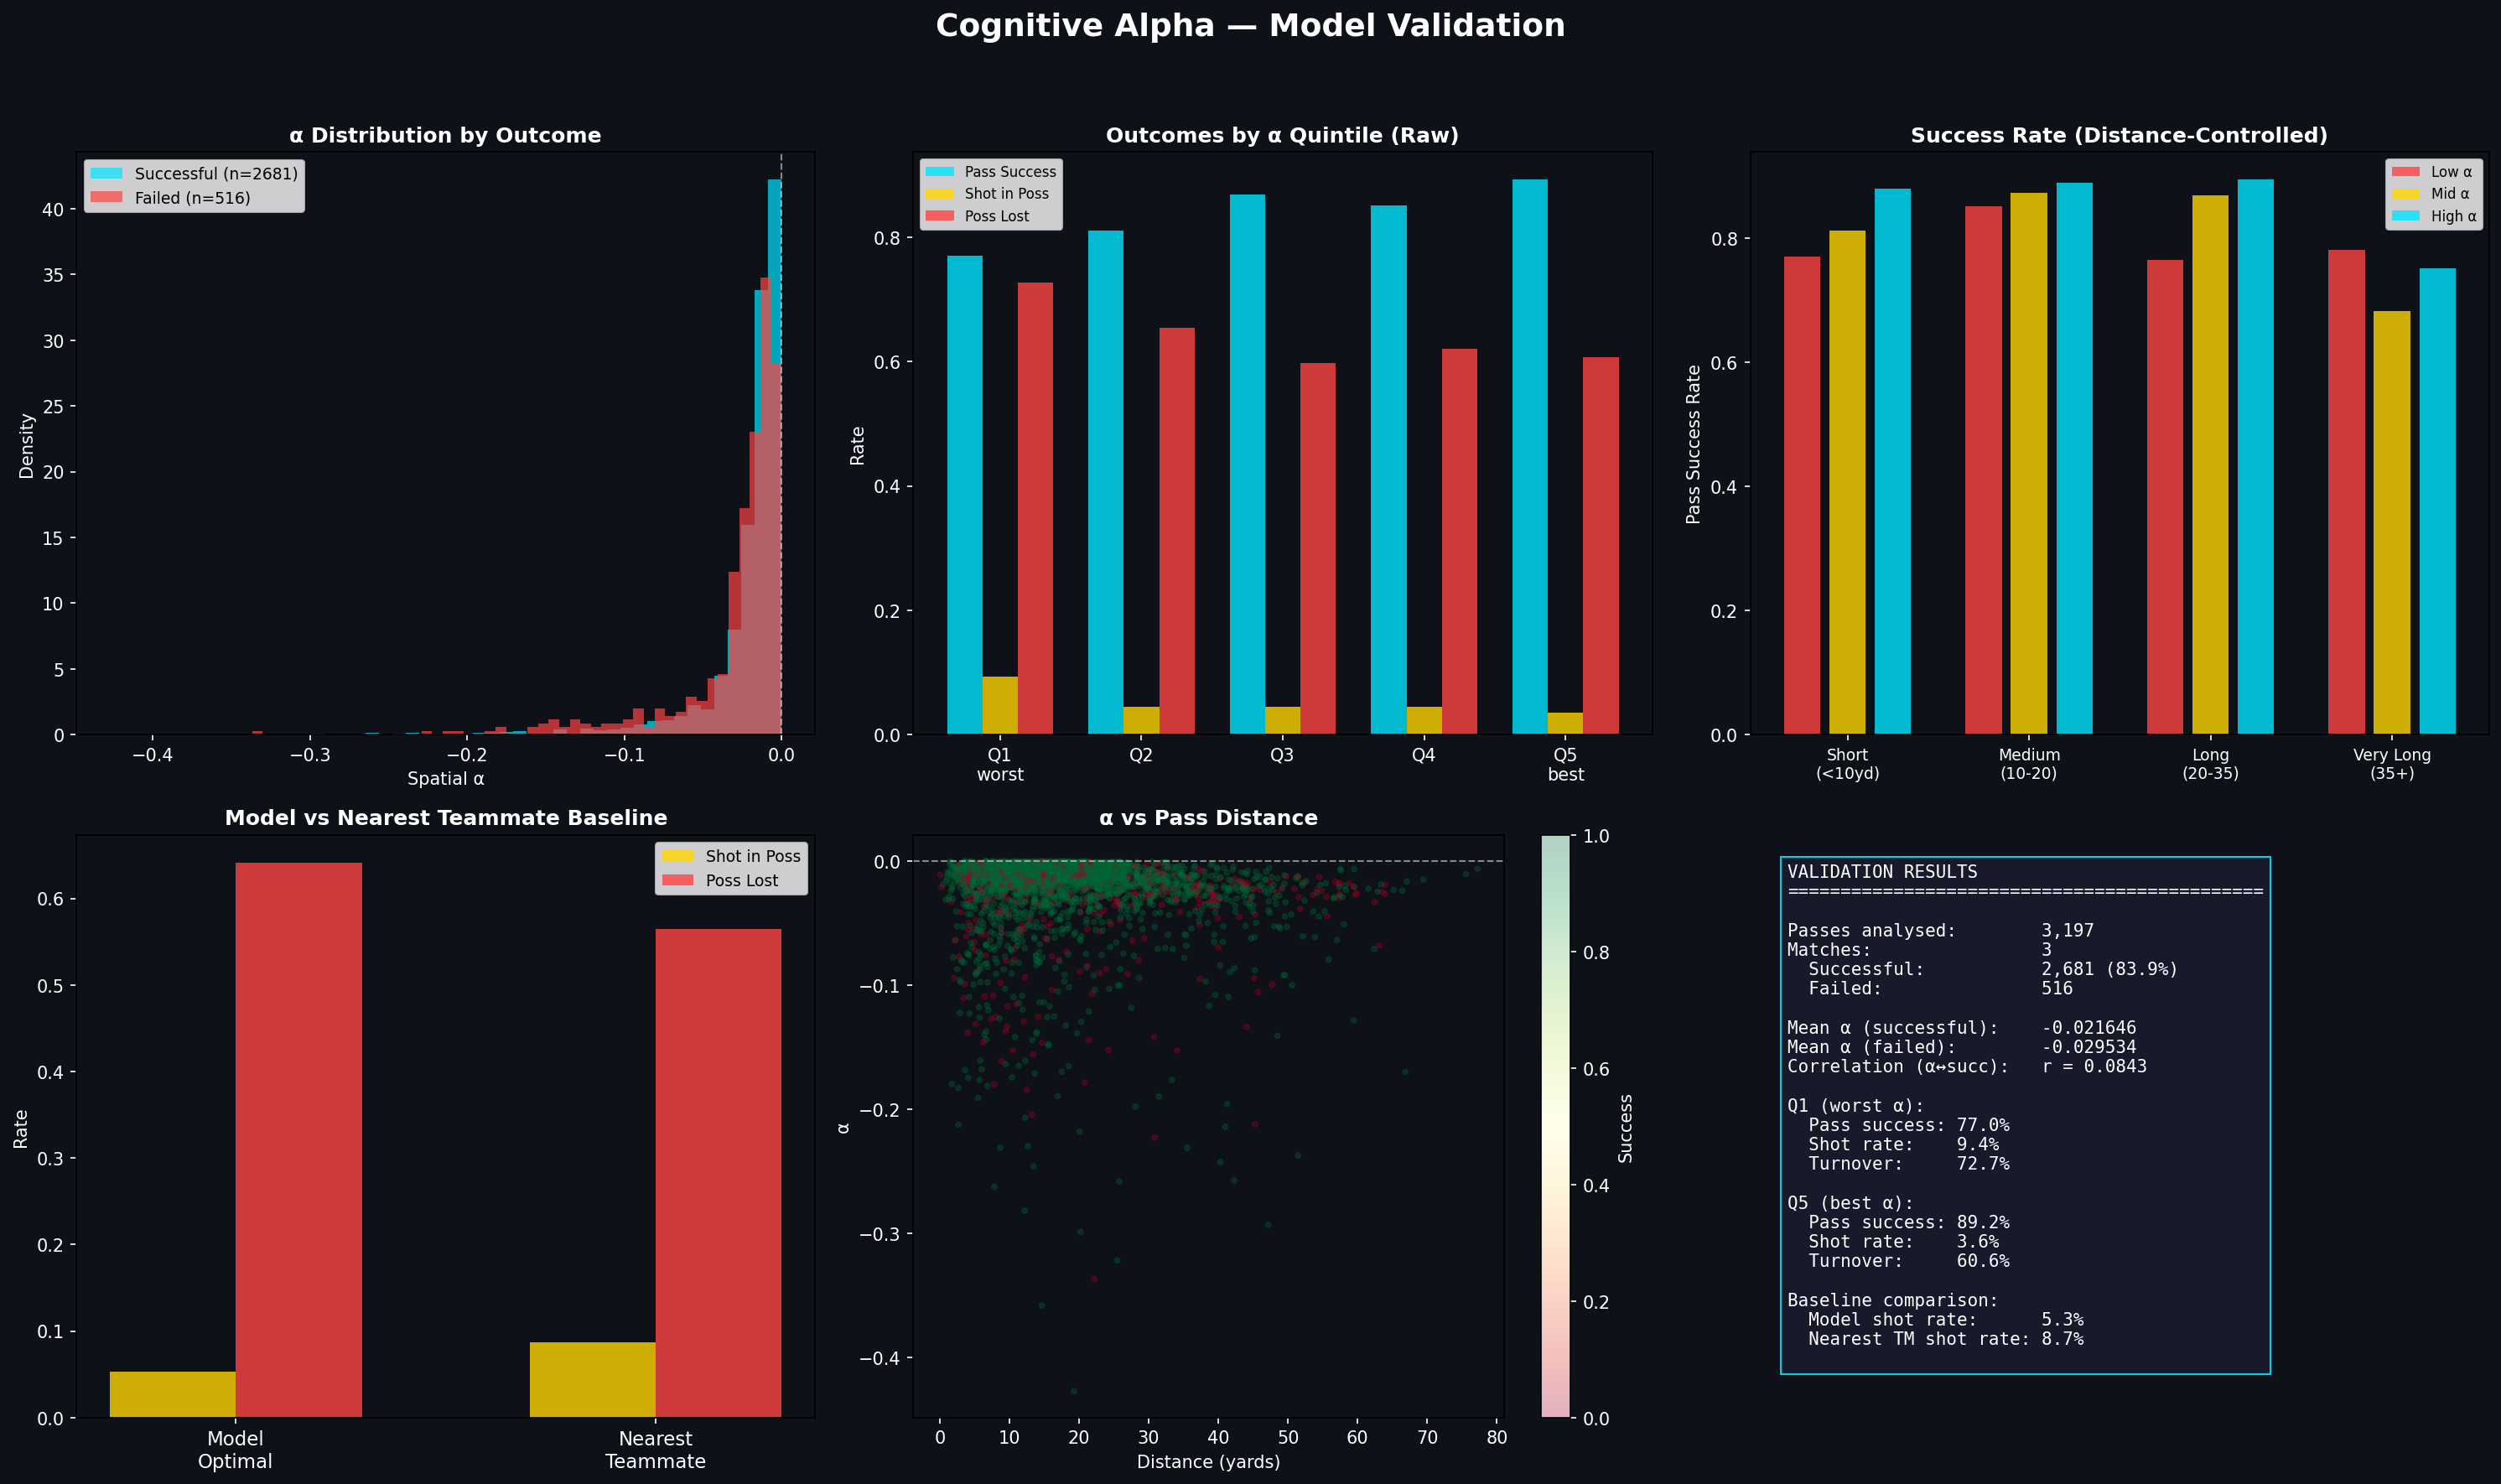
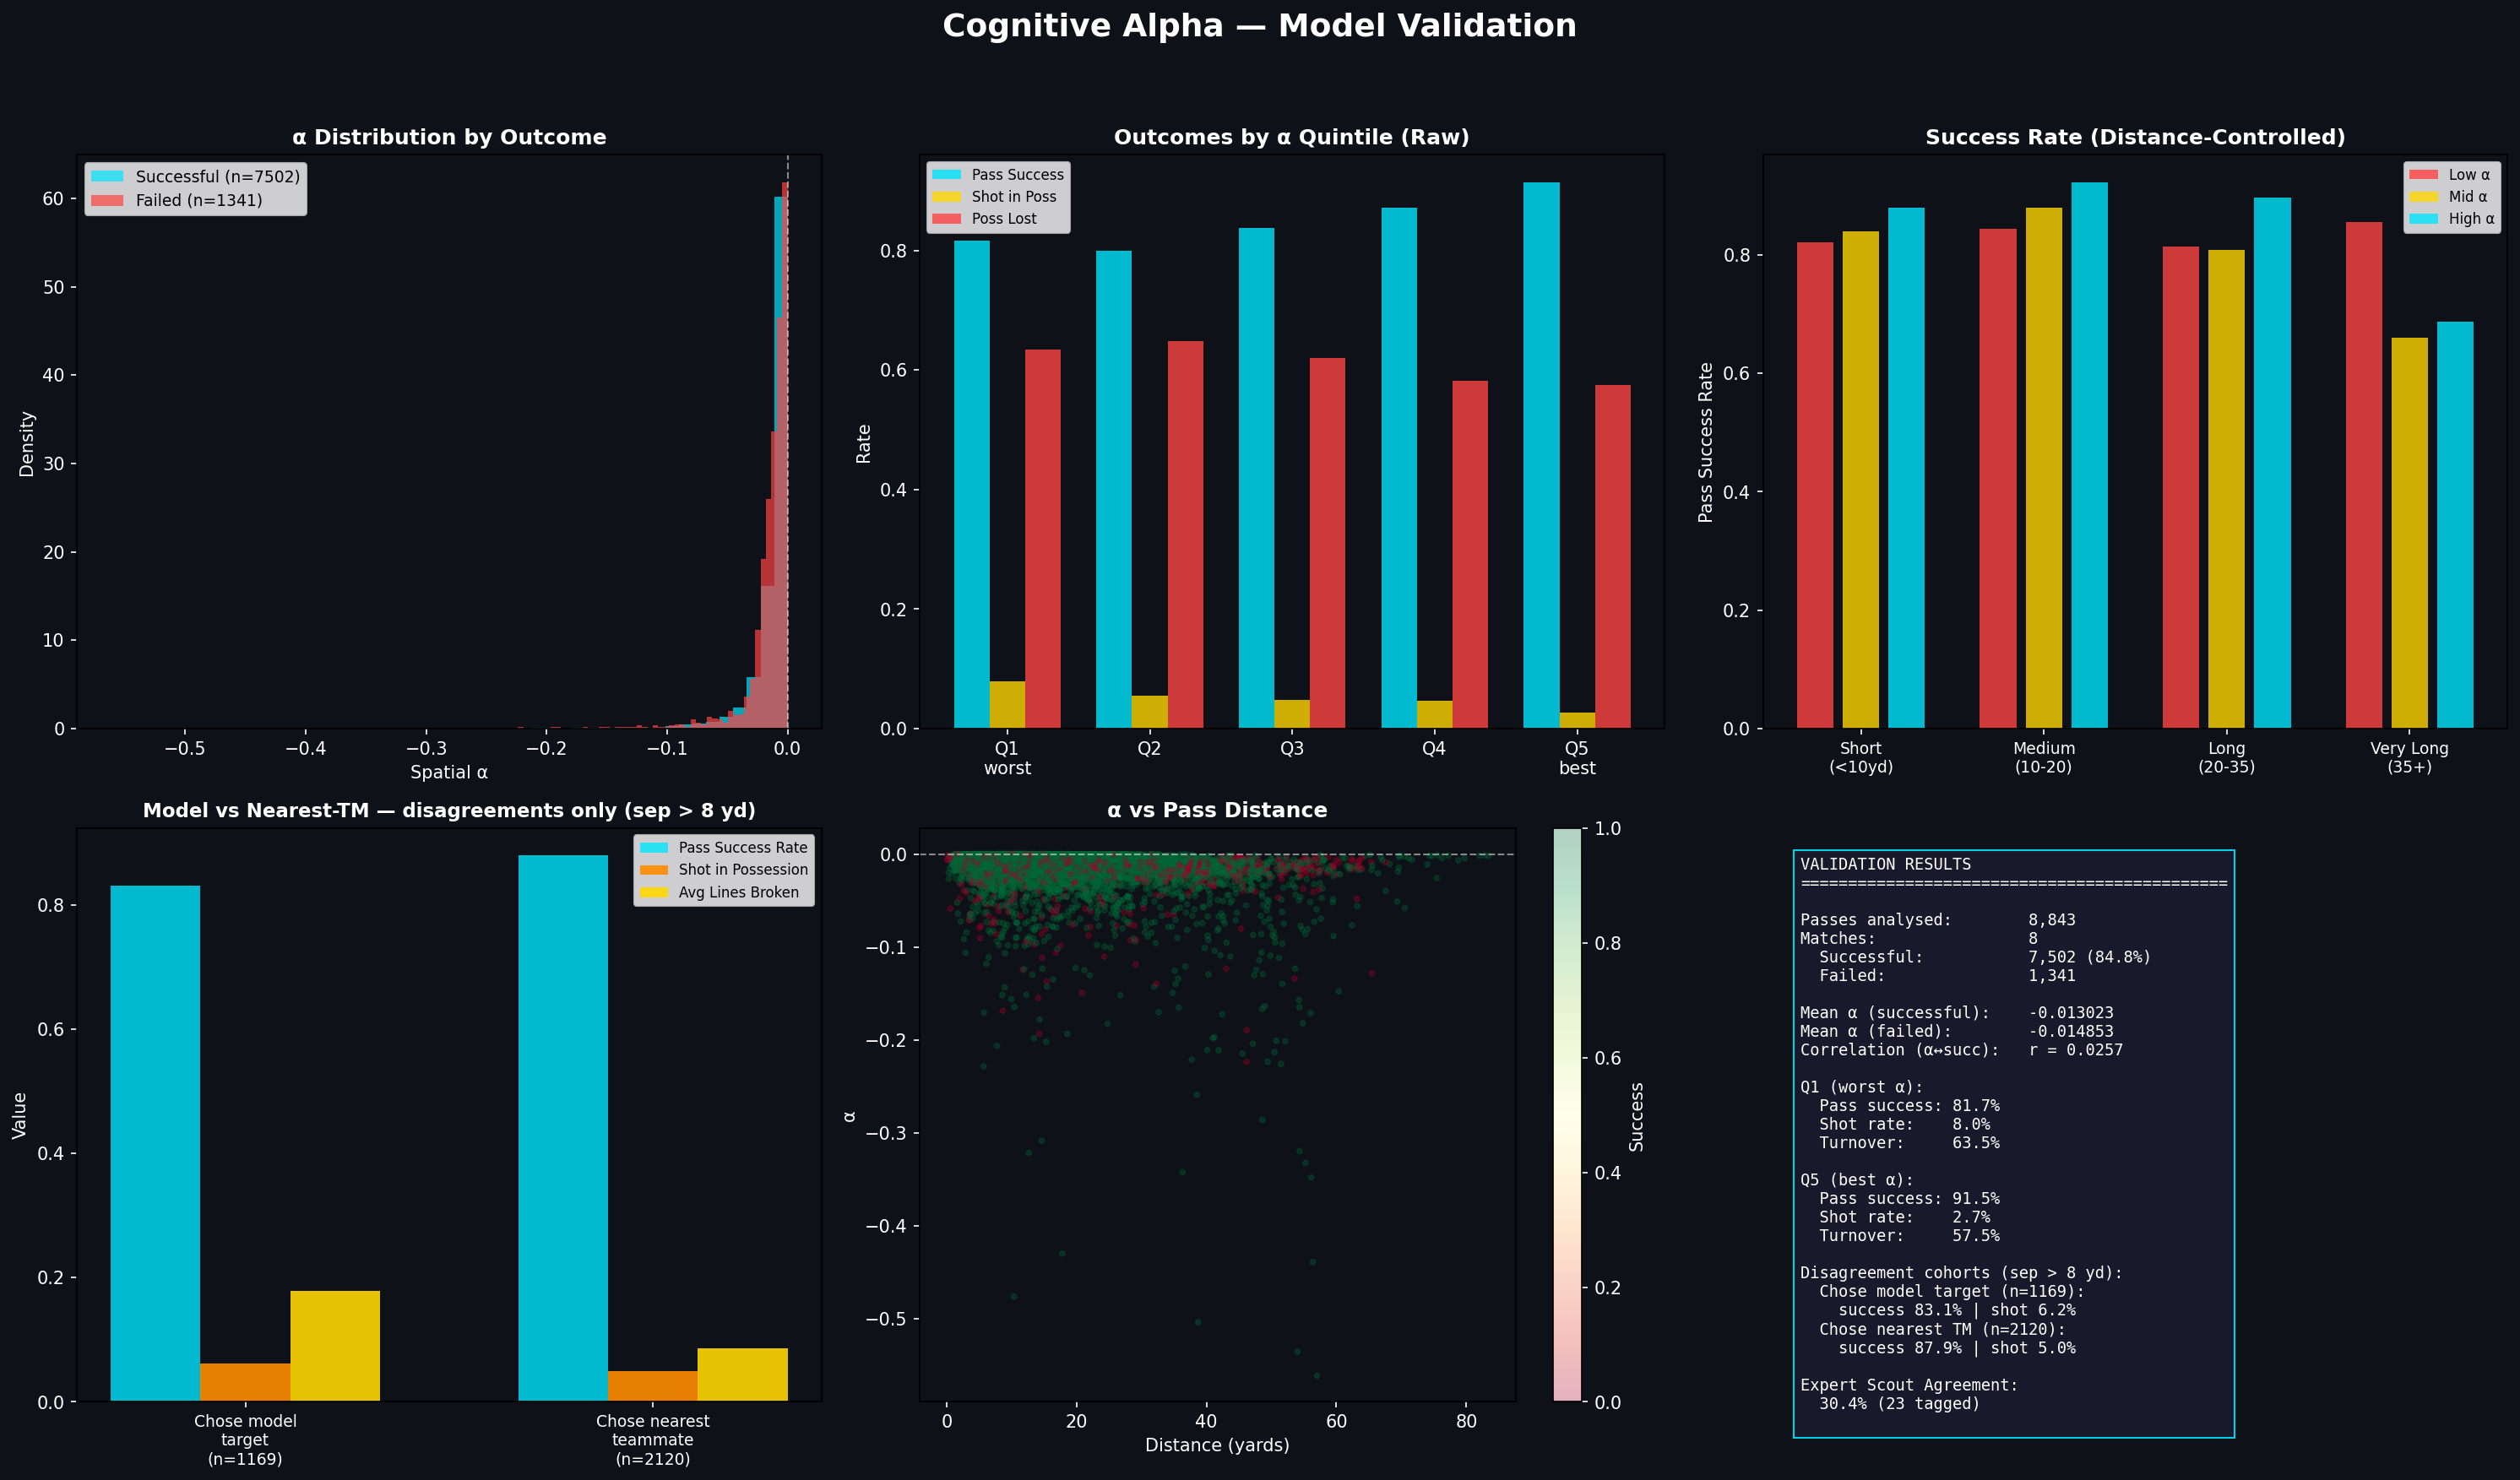
validation: fix degenerate baseline, outcome leakage, ordering assumptions
- baseline was split on opt_xev > nearest_teammate_xev, but opt_xev is
  the argmax of the same surface, so the 'baseline' cohort was only
  exact ties. Replaced with outcome comparison on true disagreements:
  passes where model target and nearest teammate are >8 yd apart and
  the player's choice matches exactly one (disagreement_cohorts).
- failed StatsBomb passes were evaluated at the interception point,
  leaking the outcome into alpha; now evaluated at the intended target
  (nearest teammate to the recorded end, infer_intended_target).
- possession look-ahead no longer assumes DataFrame row order is
  chronological; PFF event matching requires passer name + <=2s.
- cache key includes n_matches; PFF validation now runs all 8 matches.
- README: replace overclaims with hardened 8-match numbers (8,843
  passes): top-alpha tercile best completion in 3 of 4 distance bins;
  disagreement cohorts +1.2pt shots, 2x lines broken, -4.8pt completion
  (risk/reward tilt); shot-rate gap directional, not significant.
- figure regenerated from the hardened pipeline; unit tests for both
  new helpers.

diff --git a/validate_model.py b/validate_model.py
@@ -33,6 +33,65 @@ COMPETITION_ID = 43
 SEASON_ID = 106
 
 
+# ---- 0. Methodology helpers (unit-tested in tests/test_model.py) ----
+def infer_intended_target(
+    end_loc: np.ndarray, tm_pos: np.ndarray,
+) -> tuple[np.ndarray, bool]:
+    """
+    Proxy the INTENDED target of a failed pass.
+
+    StatsBomb's pass_end_location for a failed pass is where the ball was
+    intercepted or ran out -- mechanically a low-xEV spot. Evaluating the
+    decision there leaks the outcome into alpha ("failed passes look like
+    bad decisions" partly by construction). The standard proxy is the
+    teammate closest to the recorded end location.
+
+    Returns (target_pos, is_proxy).
+    """
+    if len(tm_pos) == 0:
+        return end_loc, False
+    dists = np.linalg.norm(tm_pos - end_loc, axis=1)
+    return tm_pos[int(np.argmin(dists))].astype(float), True
+
+
+def disagreement_cohorts(
+    df: pd.DataFrame,
+    radius: float = 8.0,
+    min_separation: float = 8.0,
+) -> tuple[pd.DataFrame, pd.DataFrame]:
+    """
+    Outcome-based model-vs-baseline comparison, restricted to passes where
+    the model target and the nearest-teammate target actually DISAGREE
+    (further than min_separation apart).
+
+    Rationale: the old comparison split on opt_xev > nearest_teammate_xev,
+    but opt_xev is the argmax of the same surface nearest_teammate_xev is
+    read from, so opt_xev >= nearest_teammate_xev holds by construction and
+    the "baseline" cohort contained only exact ties.
+
+    Returns (went_model, went_baseline): passes whose actual end point lies
+    within `radius` yards of exactly one of the two targets. Downstream
+    outcome rates (shots, turnovers) of the two cohorts give a fair,
+    non-circular baseline comparison.
+    """
+    d_targets = np.sqrt(
+        (df["opt_x"] - df["nearest_x"]) ** 2
+        + (df["opt_y"] - df["nearest_y"]) ** 2
+    )
+    d_opt = np.sqrt(
+        (df["actual_end_x"] - df["opt_x"]) ** 2
+        + (df["actual_end_y"] - df["opt_y"]) ** 2
+    )
+    d_near = np.sqrt(
+        (df["actual_end_x"] - df["nearest_x"]) ** 2
+        + (df["actual_end_y"] - df["nearest_y"]) ** 2
+    )
+    disagree = d_targets > min_separation
+    went_model = disagree & (d_opt <= radius) & (d_near > radius)
+    went_baseline = disagree & (d_near <= radius) & (d_opt > radius)
+    return df[went_model], df[went_baseline]
+
+
 # ---- 1. Compute α for all passes in one match ----
 def compute_match_alphas(match_id: int) -> pd.DataFrame:
     """Compute α for all open-play passes in a match (with possession-aware look-ahead)."""
@@ -90,6 +149,16 @@ def compute_match_alphas(match_id: int) -> pd.DataFrame:
                 continue
             actual_end = np.array(end_loc, dtype=float)
 
+            # Outcome (needed now: failed passes get a proxied target)
+            pass_outcome = pass_row.get("pass_outcome")
+            is_successful = pd.isna(pass_outcome)
+
+            # De-leak: evaluate failed passes at the intended target, not
+            # at the interception point (see infer_intended_target).
+            end_is_proxy = False
+            if not is_successful:
+                actual_end, end_is_proxy = infer_intended_target(actual_end, tm_pos)
+
             # Compute α
             result = compute_continuous_alpha(
                 bc_pos, tm_pos, def_pos, actual_end, pass_type="Ground Pass",
@@ -110,21 +179,26 @@ def compute_match_alphas(match_id: int) -> pd.DataFrame:
                 nearest_x, nearest_y = 0.0, 0.0
 
             # === Possession-ID look-ahead ===
-            pass_outcome = pass_row.get("pass_outcome")
-            is_successful = pd.isna(pass_outcome)
             passer_team = pass_row.get("team")
             possession_id = pass_row.get("possession")
 
-            # Look ahead within SAME possession chain only
+            # Look ahead within SAME possession chain only.
+            # Sort chronologically -- DataFrame row order is not a contract.
             if possession_id is not None:
                 same_poss = events[
                     (events["possession"] == possession_id)
                     & (events["team"] == passer_team)
                 ]
-                pass_idx_in_poss = same_poss.index[same_poss["id"] == pass_id]
-                if len(pass_idx_in_poss) > 0:
-                    idx = pass_idx_in_poss[0]
-                    future_in_poss = same_poss.loc[same_poss.index > idx]
+                if "index" in same_poss.columns:
+                    same_poss = same_poss.sort_values("index", kind="stable")
+                else:
+                    same_poss = same_poss.sort_values(
+                        ["period", "minute", "second"], kind="stable"
+                    )
+                poss_ids = same_poss["id"].tolist()
+                if pass_id in poss_ids:
+                    pos = poss_ids.index(pass_id)
+                    future_in_poss = same_poss.iloc[pos + 1:]
                     shot_in_poss = any(future_in_poss["type"] == "Shot")
                 else:
                     shot_in_poss = False
@@ -162,6 +236,7 @@ def compute_match_alphas(match_id: int) -> pd.DataFrame:
                 "nearest_y": nearest_y,
                 "pass_distance": pass_distance,
                 "is_successful": is_successful,
+                "end_is_proxy": end_is_proxy,
                 "shot_in_possession": shot_in_poss,
                 "possession_lost": possession_lost,
                 "n_defenders": len(def_pos),
@@ -238,23 +313,29 @@ def compute_pff_match_alphas(game_id: int) -> pd.DataFrame:
             is_home = row.get("team", "") == raw_events[0].get("gameEvents", {}).get("teamName", "") if raw_events else True
 
             # === PFF Possession Chain Look-ahead ===
-            # Find this pass's index in the raw event list by gameClock proximity
+            # Find this pass's index in the raw event list by gameClock
+            # proximity AND passer name (gameClock alone is ambiguous when
+            # two passes share the same second), capped at 2s tolerance.
             shot_in_poss = False
             poss_lost = not is_successful  # default: failed pass = lost
             pass_clock = row.get("minute", 0) * 60 + row.get("second", 0)
+            target_passer = str(row.get("passer_name") or "")
 
-            # Find the closest raw event by gameClock
             best_raw_idx = None
             best_diff = float("inf")
             for ri, re in enumerate(raw_events):
                 pe = re.get("possessionEvents", {})
                 if pe and pe.get("possessionEventType") == "PA":
+                    if target_passer and (pe.get("passerPlayerName") or "") != target_passer:
+                        continue
                     gc = pe.get("gameClock", -1)
                     if gc >= 0:
                         diff = abs(gc - pass_clock)
                         if diff < best_diff:
                             best_diff = diff
                             best_raw_idx = ri
+            if best_diff > 2:
+                best_raw_idx = None
 
             if best_raw_idx is not None and is_successful:
                 # Scan the next 10 events after this pass
@@ -310,6 +391,11 @@ def compute_pff_match_alphas(game_id: int) -> pd.DataFrame:
                     spatial["actual_end"] - spatial["bc_pos"]
                 )),
                 "is_successful": is_successful,
+                # failed PFF passes are already evaluated at the annotated
+                # intended target (extract_pff_passes falls back to
+                # targetPlayerName when there is no receiver), not at the
+                # interception point
+                "end_is_proxy": not is_successful,
                 "shot_in_possession": shot_in_poss,
                 "possession_lost": poss_lost,
                 "n_defenders": len(spatial["def_pos"]),
@@ -340,7 +426,9 @@ def compute_validation_data(
                  "pff" (30fps tracking, speeds + velocity vectors)
     """
     suffix = "_pff" if data_source == "pff" else ""
-    cache_path = OUTPUT_DIR / f"validation_data{suffix}.parquet"
+    # n_matches is part of the cache key -- a cache built for 3 matches
+    # must not silently satisfy a 10-match run
+    cache_path = OUTPUT_DIR / f"validation_data{suffix}_{n_matches}m.parquet"
     if cache_path.exists():
         print(f"  Loading cached {data_source.upper()} validation data")
         return pd.read_parquet(cache_path)
@@ -449,51 +537,51 @@ def plot_validation(df: pd.DataFrame, save_path: str | None = None):
     ax3.set_ylabel("Pass Success Rate", color="white")
     ax3.tick_params(colors="white"); ax3.legend(fontsize=8)
 
-    # === Panel 4: Ground-Truth Concordance Validation ===
+    # === Panel 4: Model vs Nearest-TM baseline (disagreements only) ===
+    # Fair comparison: only passes where the two targets are >8 yd apart
+    # and the player's actual choice matches exactly one of them.
+    # (The old version assigned overlapping passes to the model first,
+    # which inflated the model cohort whenever the targets coincided.)
     ax4 = axes[1, 0]
-    CONCORDANCE_R = 8.0  # yards — radius for "human passed to AI target"
+    CONCORDANCE_R = 8.0  # yards — radius for "human passed to this target"
     EXPERT_R = 12.0      # yards — radius for AI-vs-expert agreement
 
-    # Compute concordance distances
     has_coords = all(c in df.columns for c in ["actual_end_x", "actual_end_y", "nearest_x", "nearest_y"])
     if has_coords:
-        df["dist_to_opt"] = np.sqrt(
-            (df["actual_end_x"] - df["opt_x"]) ** 2
-            + (df["actual_end_y"] - df["opt_y"]) ** 2
+        conc_model, conc_baseline = disagreement_cohorts(
+            df, radius=CONCORDANCE_R, min_separation=CONCORDANCE_R,
         )
-        df["dist_to_nearest"] = np.sqrt(
-            (df["actual_end_x"] - df["nearest_x"]) ** 2
-            + (df["actual_end_y"] - df["nearest_y"]) ** 2
-        )
-        model_concordant = df["dist_to_opt"] <= CONCORDANCE_R
-        baseline_concordant = (~model_concordant) & (df["dist_to_nearest"] <= CONCORDANCE_R)
-        conc_model = df[model_concordant]
-        conc_baseline = df[baseline_concordant]
     else:
         conc_model = pd.DataFrame()
         conc_baseline = pd.DataFrame()
 
-    # --- Lines Broken Validation ---
+    # --- Outcomes when the player followed the model vs the naive heuristic ---
     has_lines = "lines_broken" in df.columns
     lines_model = conc_model["lines_broken"].mean() if has_lines and len(conc_model) > 0 else 0
     lines_baseline = conc_baseline["lines_broken"].mean() if has_lines and len(conc_baseline) > 0 else 0
     succ_model = conc_model["is_successful"].mean() if len(conc_model) > 0 else 0
     succ_baseline = conc_baseline["is_successful"].mean() if len(conc_baseline) > 0 else 0
+    shot_model = conc_model["shot_in_possession"].mean() if len(conc_model) > 0 else 0
+    shot_baseline = conc_baseline["shot_in_possession"].mean() if len(conc_baseline) > 0 else 0
 
     x_b = [0, 1]
     labels_conc = [
-        f"Model\nConcordant\n(n={len(conc_model)})",
-        f"Baseline\nConcordant\n(n={len(conc_baseline)})",
+        f"Chose model\ntarget\n(n={len(conc_model)})",
+        f"Chose nearest\nteammate\n(n={len(conc_baseline)})",
     ]
-    w = 0.25
-    ax4.bar([x - w/2 for x in x_b], [lines_model, lines_baseline], w,
-            color="#ffd700", label="Avg Lines Broken", alpha=0.9)
-    ax4.bar([x + w/2 for x in x_b], [succ_model, succ_baseline], w,
+    w = 0.22
+    ax4.bar([x - w for x in x_b], [succ_model, succ_baseline], w,
             color="#00e5ff", label="Pass Success Rate", alpha=0.8)
+    ax4.bar(x_b, [shot_model, shot_baseline], w,
+            color="#ff8c00", label="Shot in Possession", alpha=0.9)
+    ax4.bar([x + w for x in x_b], [lines_model, lines_baseline], w,
+            color="#ffd700", label="Avg Lines Broken", alpha=0.9)
     ax4.set_xticks(x_b)
     ax4.set_xticklabels(labels_conc, color="white", fontsize=9)
-    ax4.set_title(f"Ground-Truth Concordance (r ≤ {CONCORDANCE_R:.0f} yd)", color="white",
-                  fontsize=11, fontweight="bold")
+    ax4.set_title(
+        f"Model vs Nearest-TM — disagreements only (sep > {CONCORDANCE_R:.0f} yd)",
+        color="white", fontsize=11, fontweight="bold",
+    )
     ax4.set_ylabel("Value", color="white")
     ax4.tick_params(colors="white")
     ax4.legend(fontsize=8)
@@ -549,9 +637,11 @@ def plot_validation(df: pd.DataFrame, save_path: str | None = None):
         f"  Pass success: {q5['success']:.1%}\n"
         f"  Shot rate:    {q5['shot']:.1%}\n"
         f"  Turnover:     {q5['turnover']:.1%}\n\n"
-        f"Lines Broken (concordance):\n"
-        f"  Model:    {lines_model:.2f} avg\n"
-        f"  Baseline: {lines_baseline:.2f} avg\n\n"
+        f"Disagreement cohorts (sep > 8 yd):\n"
+        f"  Chose model target (n={len(conc_model)}):\n"
+        f"    success {succ_model:.1%} | shot {shot_model:.1%}\n"
+        f"  Chose nearest TM (n={len(conc_baseline)}):\n"
+        f"    success {succ_baseline:.1%} | shot {shot_baseline:.1%}\n\n"
         f"Expert Scout Agreement:\n"
         f"  {expert_agreement_pct:.1f}% ({n_expert_passes} tagged)\n"
     )
@@ -574,7 +664,7 @@ def plot_validation(df: pd.DataFrame, save_path: str | None = None):
 def main():
     import sys
     data_source = "pff" if "--pff" in sys.argv else "statsbomb"
-    n_matches = 3 if data_source == "pff" else 10
+    n_matches = 8 if data_source == "pff" else 10
     print("  Cognitive Alpha — Model Validation")
     print(f"  Data Source: {data_source.upper()}")
     print(f"  Matches: {n_matches}")
@@ -599,11 +689,19 @@ def main():
     print(f"  Mean α (failed):     {failed['alpha'].mean():+.6f}")
     print(f"  Correlation (α↔suc): r = {df['alpha'].corr(df['is_successful'].astype(float)):.4f}")
 
-    # Baseline
-    model_shot = df[df["opt_xev"] > df["nearest_teammate_xev"]]["shot_in_possession"].mean()
-    naive_shot = df[df["opt_xev"] <= df["nearest_teammate_xev"]]["shot_in_possession"].mean()
-    print(f"  Model optimal → shot rate:  {model_shot:.1%}")
-    print(f"  Nearest TM → shot rate:     {naive_shot:.1%}")
+    # Baseline: outcome comparison on disagreement cohorts only.
+    # (Splitting on opt_xev > nearest_teammate_xev is degenerate: opt_xev
+    # is the argmax of the surface nearest_teammate_xev is read from.)
+    went_model, went_baseline = disagreement_cohorts(df)
+    if len(went_model) > 0 and len(went_baseline) > 0:
+        print(f"  Disagreements — chose model target (n={len(went_model)}): "
+              f"shot rate {went_model['shot_in_possession'].mean():.1%}, "
+              f"turnover {went_model['possession_lost'].mean():.1%}")
+        print(f"  Disagreements — chose nearest TM  (n={len(went_baseline)}): "
+              f"shot rate {went_baseline['shot_in_possession'].mean():.1%}, "
+              f"turnover {went_baseline['possession_lost'].mean():.1%}")
+    else:
+        print("  Not enough disagreement passes for a baseline comparison.")
 
     if data_source == "pff":
         print("\n  Body orientation turn penalty ACTIVE")

diff --git a/tests/test_model.py b/tests/test_model.py
@@ -127,3 +127,43 @@ def test_sb_to_pff_mapping_matches_fixtures():
                 meta = meta[0]
             assert meta["homeTeam"]["name"] in label, (pff_id, label)
             assert meta["awayTeam"]["name"] in label, (pff_id, label)
+
+
+# ---- validation methodology helpers ------------------------------------
+
+def test_infer_intended_target_picks_closest_teammate():
+    from validate_model import infer_intended_target
+
+    end = np.array([20.0, 20.0])
+    tms = np.array([[50.0, 50.0], [22.0, 19.0]])
+    target, is_proxy = infer_intended_target(end, tms)
+    assert is_proxy
+    assert np.allclose(target, [22.0, 19.0])
+    # no teammates: keep the recorded end location, unproxied
+    target, is_proxy = infer_intended_target(end, np.zeros((0, 2)))
+    assert not is_proxy
+    assert np.allclose(target, end)
+
+
+def test_disagreement_cohorts_are_symmetric_and_exclusive():
+    import pandas as pd
+    from validate_model import disagreement_cohorts
+
+    rows = [
+        # targets agree (sep 2 yd) -> excluded even though actual hits both
+        dict(opt_x=50, opt_y=40, nearest_x=52, nearest_y=40,
+             actual_end_x=51, actual_end_y=40, tag="agree"),
+        # disagree, actual at the model target -> went_model
+        dict(opt_x=100, opt_y=40, nearest_x=60, nearest_y=40,
+             actual_end_x=99, actual_end_y=41, tag="model"),
+        # disagree, actual at the nearest teammate -> went_baseline
+        dict(opt_x=100, opt_y=40, nearest_x=60, nearest_y=40,
+             actual_end_x=61, actual_end_y=39, tag="baseline"),
+        # disagree, actual near neither -> excluded
+        dict(opt_x=100, opt_y=40, nearest_x=60, nearest_y=40,
+             actual_end_x=80, actual_end_y=10, tag="neither"),
+    ]
+    df = pd.DataFrame(rows)
+    went_model, went_baseline = disagreement_cohorts(df)
+    assert went_model["tag"].tolist() == ["model"]
+    assert went_baseline["tag"].tolist() == ["baseline"]

diff --git a/README.md b/README.md
@@ -28,14 +28,16 @@ where the expected value of a target location combines five surfaces evaluated o
 
 `validate_model.py` runs four checks (`--pff` for the tracking-enhanced version):
 
-- Alpha quintiles vs outcomes: pass completion, shot within the same possession chain, and possession loss, with look-ahead strictly bounded to the same possession.
+- Alpha quintiles vs outcomes: pass completion, shot within the same possession chain, and possession loss, with look-ahead strictly bounded to the same possession. Failed passes are evaluated at their *intended* target (nearest teammate to the recorded end point; PFF's annotated target), never at the interception point — otherwise the outcome leaks into alpha.
 - The same analysis controlled for pass distance (terciles within distance bins), since long passes have both lower alpha and lower completion.
-- A nearest-teammate baseline and a concordance analysis (was the actual pass within 8 yards of the model's optimum?).
+- A nearest-teammate baseline restricted to true disagreements: passes where the model target and the nearest teammate are more than 8 yards apart and the player's actual choice matches exactly one of them. Comparing downstream outcomes of these two cohorts avoids the circularity of scoring the baseline with the model's own surface.
 - Agreement with PFF's human scout annotations: where scouts tagged a "better option" on a pass, the model's optimum is compared to the scout's suggestion.
 
 ![Validation](figures/model_validation_pff.png)
 
-One limitation to state plainly: alpha embeds the completion probability of the actual target, so a raw correlation between alpha and pass success is partly mechanical. That is why the distance-controlled and downstream-outcome (shot/turnover) checks matter more than the raw correlation, and why the scout-agreement axis is the most independent of the four.
+Headline numbers on the 8-match PFF sample (8,843 passes): the top-alpha tercile posts the highest completion rate in three of four distance bins (92.3% vs 84.4% on 10–20 yd passes); on disagreement passes (n = 3,289), players who chose the model's target generated more shots (6.2% vs 5.0%) and broke twice as many defensive lines (0.18 vs 0.09 per pass) at a lower completion rate (83.1% vs 87.9%) — the model prices risk/reward, not safety. The shot-rate gap is directional (z ≈ 1.4), not statistically significant.
+
+One limitation to state plainly: even with intended-target evaluation, alpha embeds the completion probability of the chosen target, so the raw alpha–success correlation (r ≈ 0.03 on de-leaked data) is uninformative by itself. The distance-controlled and downstream-outcome checks carry the weight, and the scout-agreement axis is the most independent of the four.
 
 ## Layout
 